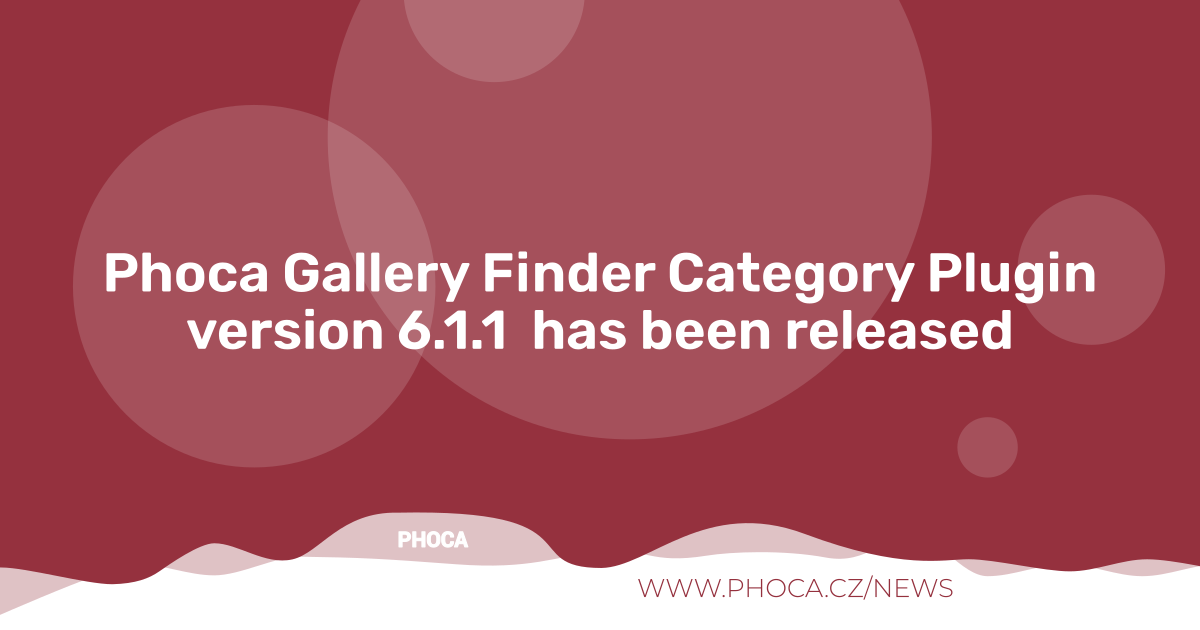
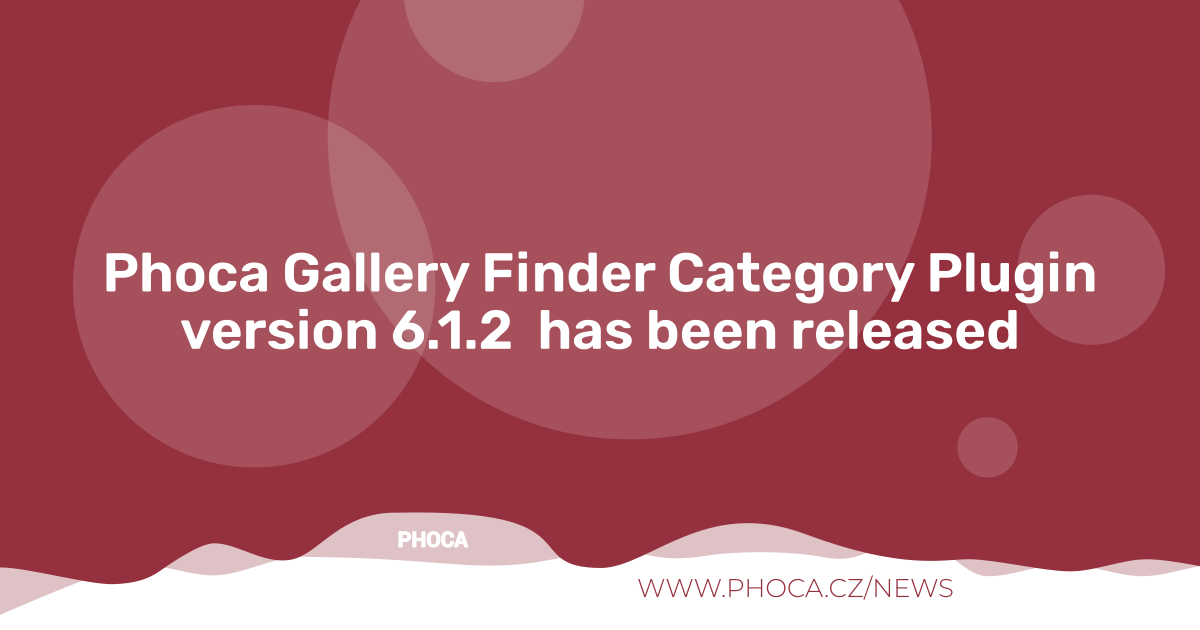
6.1.2

Changed region(s): [[0.1542, 0.4825, 0.8633, 0.573]]

diff --git a/README.MD b/README.MD
@@ -63,14 +63,12 @@ If you need additional information beyond this GitHub repository, further docume
 
 - [Joomla! 2.5 Demo](https://www.phoca.cz/joomlademo/)
 
-### Version (Joomla! 3.x - no longer supported)
-4.4.0
 ### Version (Joomla! 4.x - no longer supported)
 4.5.2
 ### Version (Joomla! 5.x - no longer supported)
 5.0.3
 ### Version (Joomla! 6.x)
-6.1.1
+6.1.2
 
 ### License
 
